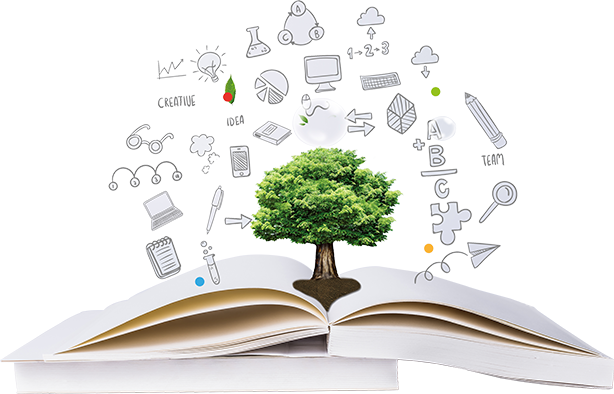
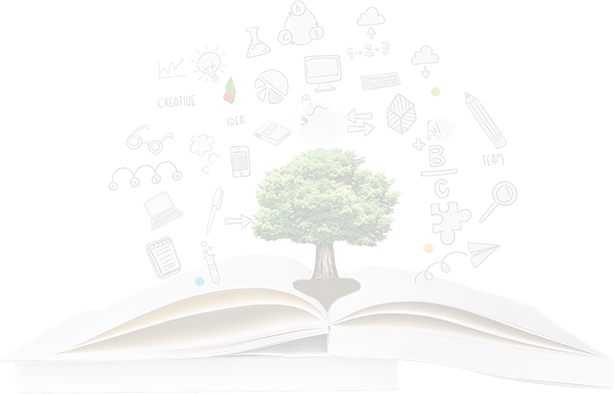
修正首页公司文化背景图透明度

diff --git a/Public/Home/css/index_mobile.css b/Public/Home/css/index_mobile.css
@@ -140,9 +140,8 @@ ul, li {
 }
 
 #culture .content {
-    background: url("../images/YL_PNG/index/culture_mobile.gif") center 0;
+    background: url("../images/YL_PNG/index/culture_mobile.png") no-repeat center center;
     background-size: 100%;
-
 }
 
 .content .right {
